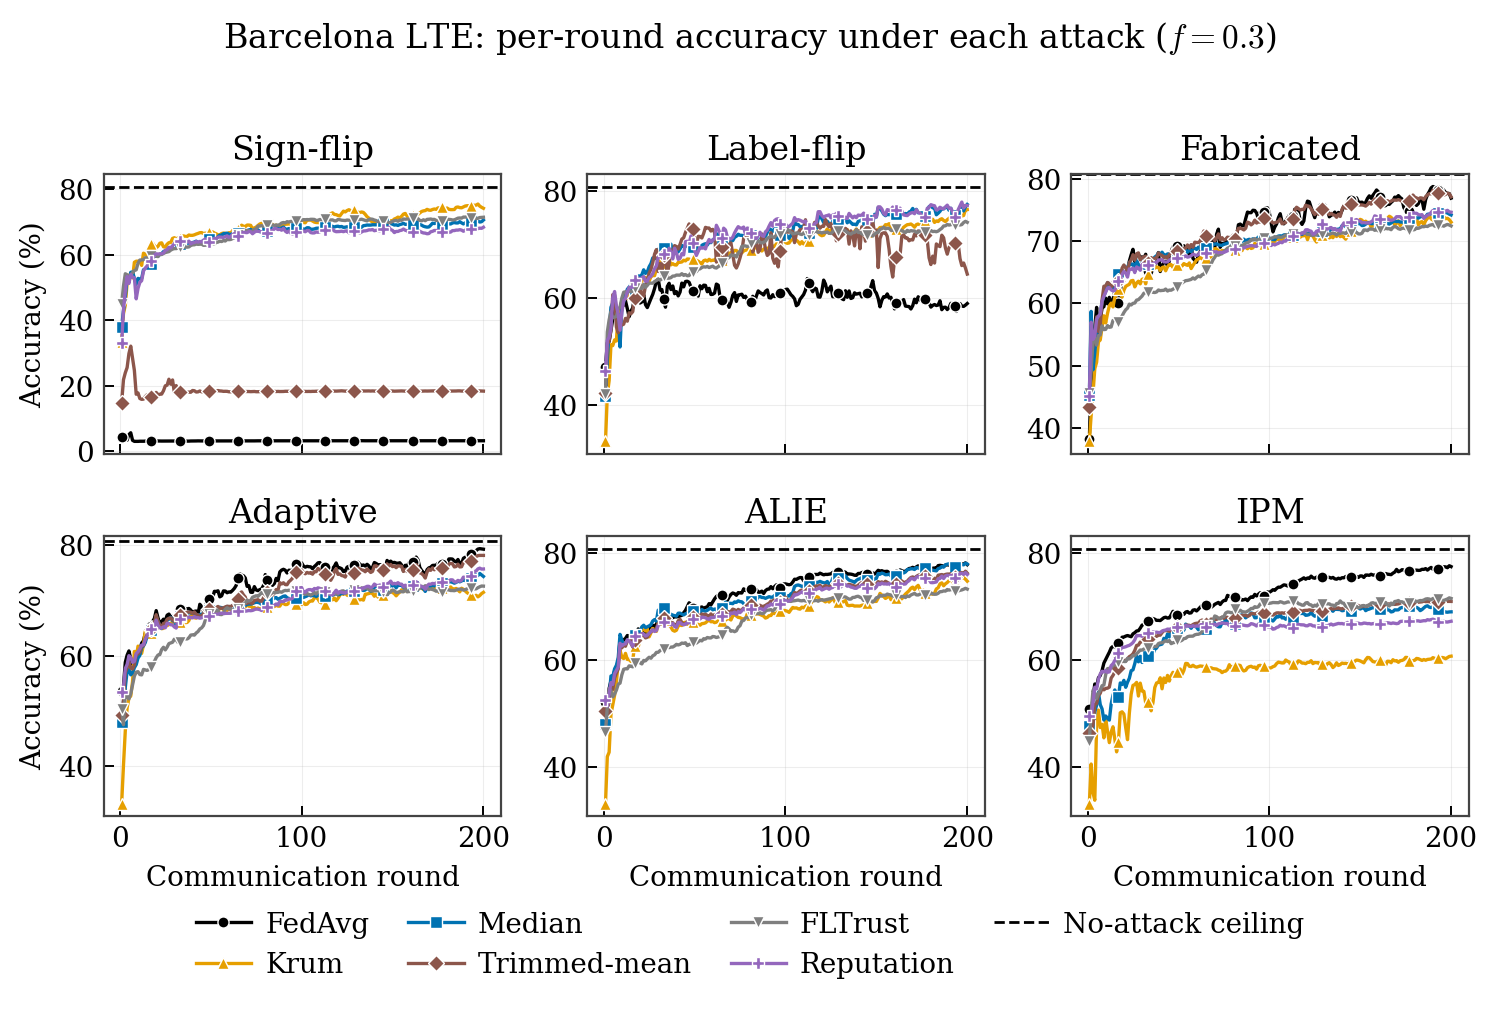
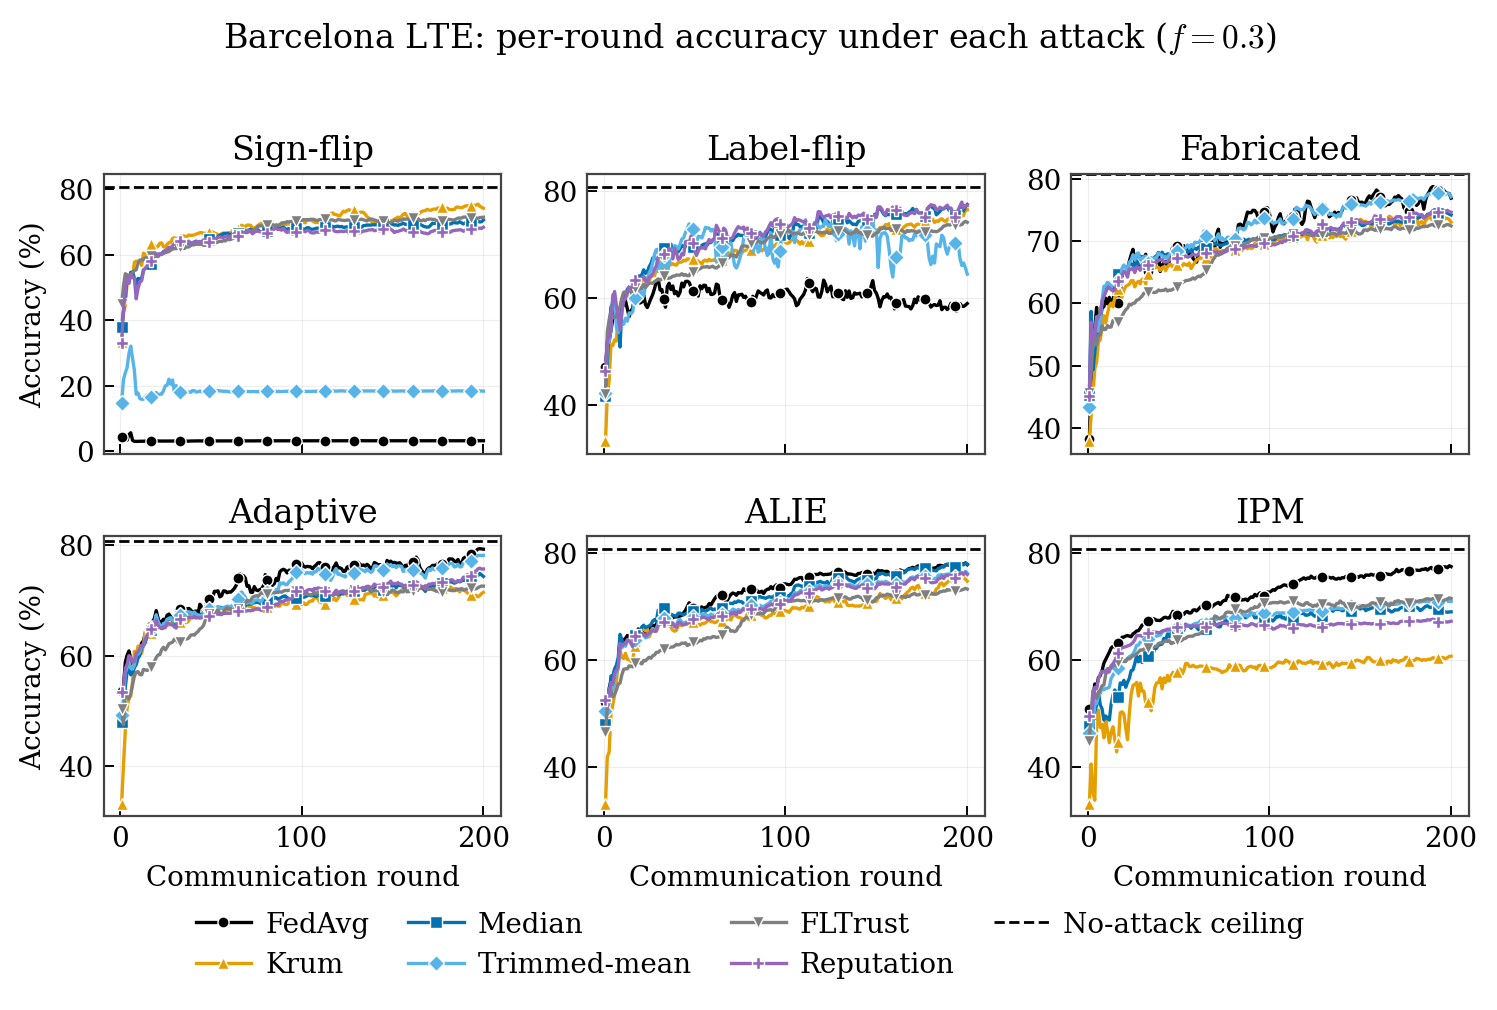
Recolor trimmed-mean to sky blue (remove last warm tone from figures)

diff --git a/scripts/make_convergence.py b/scripts/make_convergence.py
@@ -33,7 +33,7 @@ AGGS = ["fedavg", "krum", "median", "trimmed_mean", "fltrust", "reputation"]
 LABEL = {"fedavg": "FedAvg", "krum": "Krum", "median": "Median",
          "trimmed_mean": "Trimmed-mean", "fltrust": "FLTrust", "reputation": "Reputation"}
 COLOR = {"fedavg": "#000000", "krum": "#E69F00", "median": "#0072B2",
-         "trimmed_mean": "#8C564B", "fltrust": "#7F7F7F", "reputation": "#9467BD"}
+         "trimmed_mean": "#56B4E9", "fltrust": "#7F7F7F", "reputation": "#9467BD"}
 DATASETS = [
     ("Barcelona LTE", lambda s: load_real_federated_dataset(n_clients=50, seed=s), 8, 200),
     ("Raca 5G", lambda s: load_5g_federated_dataset(n_clients=50, seed=s), 7, 150),

diff --git a/scripts/make_figures.py b/scripts/make_figures.py
@@ -87,7 +87,7 @@ ATT_LABEL = {"sign_flip": "Sign-flip", "label_flip": "Label-flip", "fabricated":
              "adaptive": "Adaptive", "alie": "ALIE", "ipm": "IPM"}
 # Professional colorblind-aware palette (no red, no green).
 COLOR = {"fedavg": "#000000", "krum": "#E69F00", "median": "#0072B2",
-         "trimmed_mean": "#8C564B", "fltrust": "#7F7F7F", "reputation": "#9467BD"}
+         "trimmed_mean": "#56B4E9", "fltrust": "#7F7F7F", "reputation": "#9467BD"}
 MARK = {"fedavg": "o", "krum": "^", "median": "s", "trimmed_mean": "D",
         "fltrust": "v", "reputation": "P"}
 